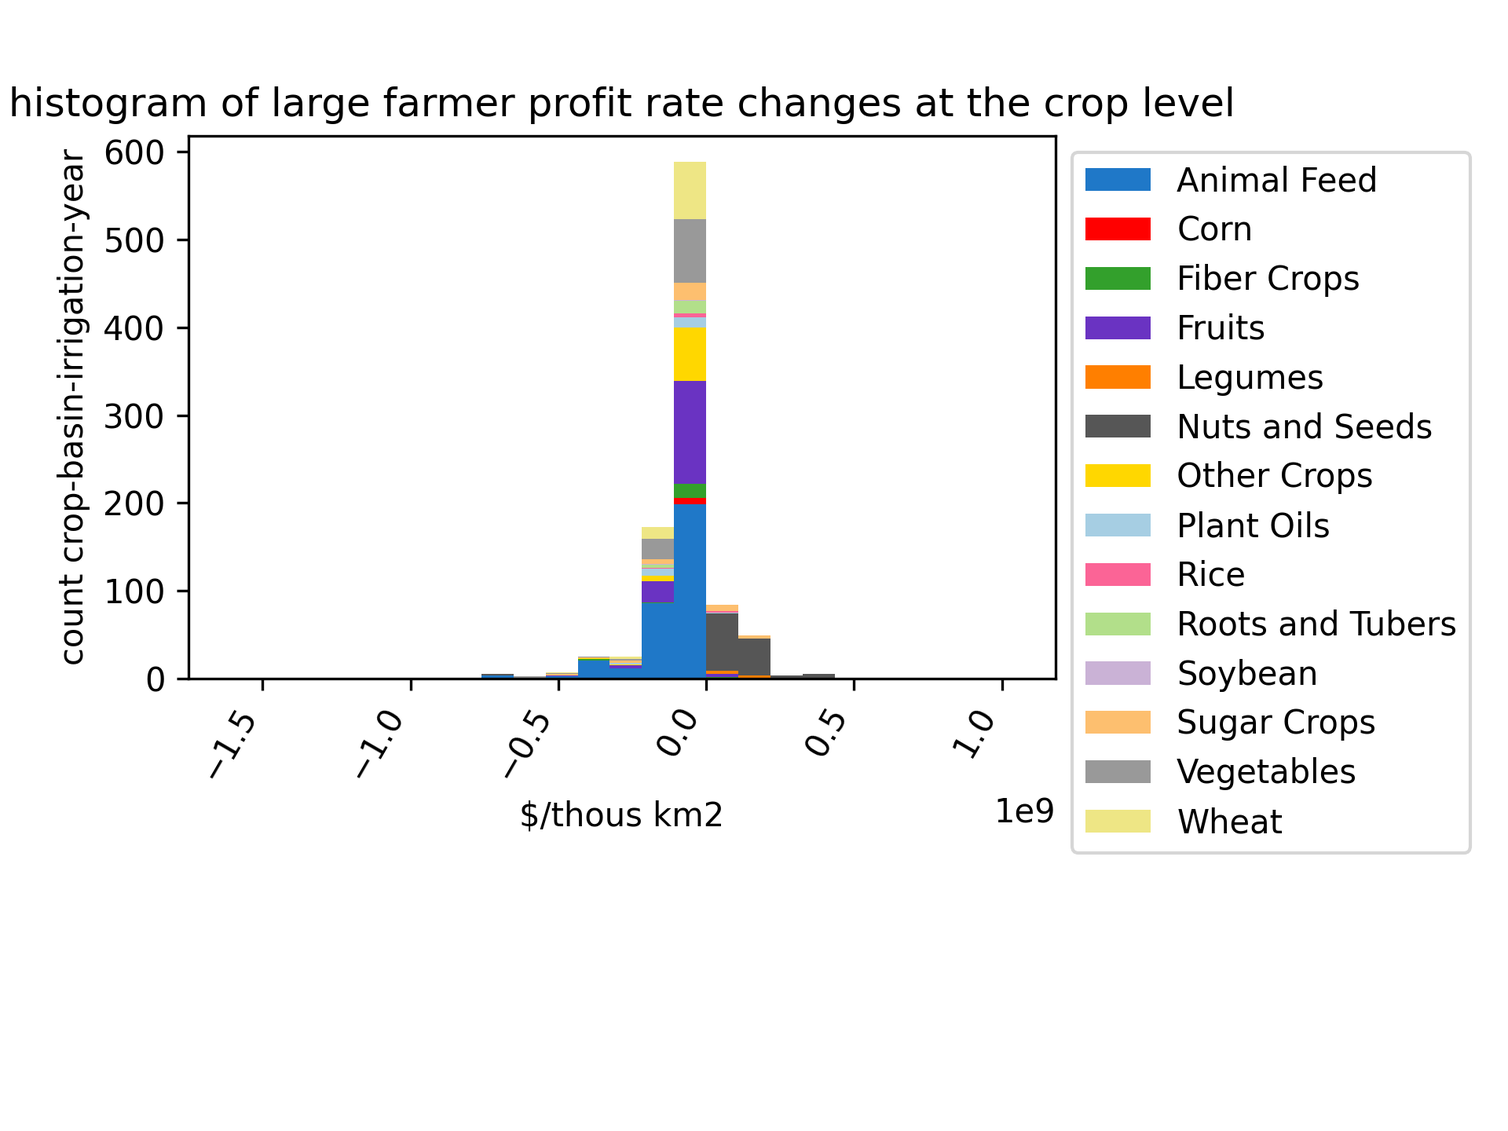
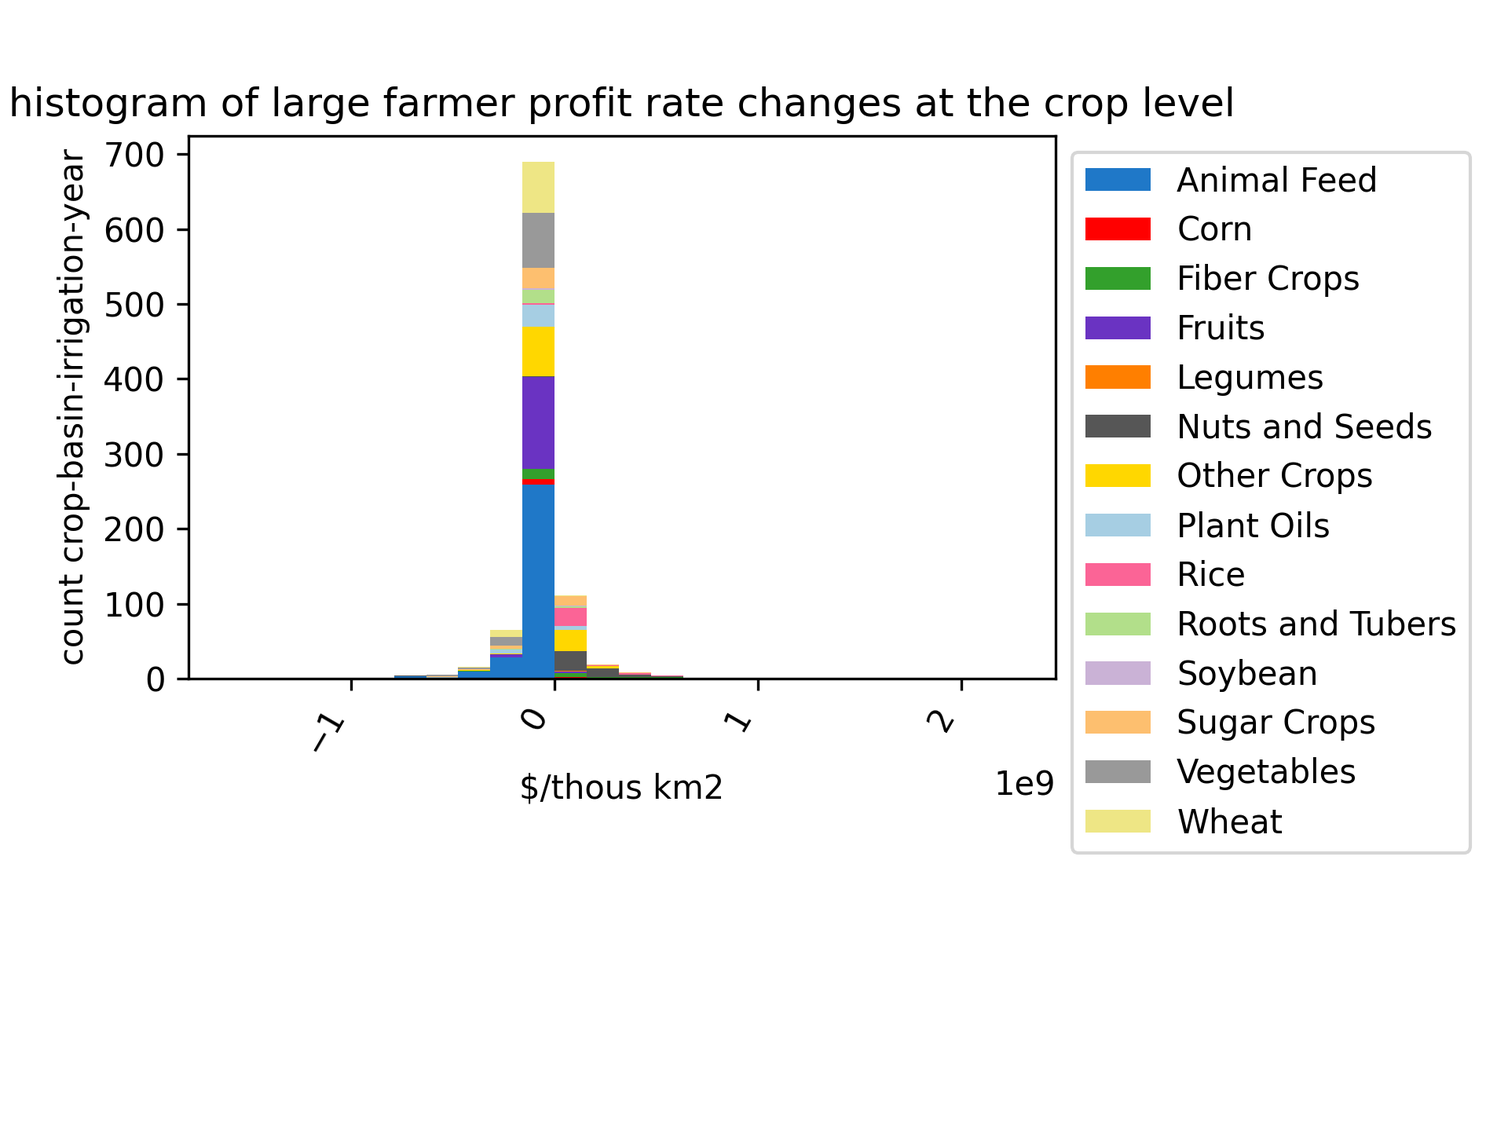
swapped baseline over to reference scenario hi from biochar hi

diff --git a/supplementary_figures.py b/supplementary_figures.py
@@ -1,13 +1,17 @@
-from matplotlib import pyplot as plt
-
-import constants
 import plotting
 import data_manipulation
 import constants as c
 import pandas as pd
-import stats as stats
+
 
 def pop_and_calories(nonBaselineScenario, RCP, SSP):
+    """
+    plots changes to population and calories consumed
+    :param nonBaselineScenario: the scenario to be compared to the released scenario
+    :param RCP: the RCP pathways being considered
+    :param SSP: the SSP pathways being considered
+    :return: N/A
+    """
     # get population data
     released_pop = pd.read_csv(
         "data/gcam_out/released/" + RCP + "/original/population_by_region.csv")
@@ -27,14 +31,20 @@ def pop_and_calories(nonBaselineScenario, RCP, SSP):
     pyrolysis_Pcal = pyrolysis_Pcal[pyrolysis_Pcal[['SSP']].isin(SSP).any(axis=1)]
     released_global_pcal = released_Pcal[released_Pcal[['GCAM']].isin(["Global"]).any(axis=1)]
     print(released_global_pcal[["subsector", "technology", "2050", "Units"]])
-    flat_diff_Pcal = data_manipulation.flat_difference(released_Pcal, pyrolysis_Pcal, ["GCAM", "SSP", "subsector", "subsector.1", "technology"]).drop_duplicates()
-    perc_diff_Pcal = data_manipulation.percent_difference(released_Pcal, pyrolysis_Pcal, ["GCAM", "SSP", "subsector", "subsector.1",  "technology"]).drop_duplicates()
+    flat_diff_Pcal = data_manipulation.flat_difference(released_Pcal, pyrolysis_Pcal,
+                                                       ["GCAM", "SSP", "subsector", "subsector.1",
+                                                        "technology"]).drop_duplicates()
+    perc_diff_Pcal = data_manipulation.percent_difference(released_Pcal, pyrolysis_Pcal,
+                                                          ["GCAM", "SSP", "subsector", "subsector.1",
+                                                           "technology"]).drop_duplicates()
     # perc_diff_Pcal["Units"] = "%"
     global_flat = flat_diff_Pcal[flat_diff_Pcal[['GCAM']].isin(["Global"]).any(axis=1)]
     print(global_flat[["subsector", "technology", "2050", "Units"]])
     flat_diff_Pcal = flat_diff_Pcal[~flat_diff_Pcal[['GCAM']].isin(["Global"]).any(axis=1)]
     perc_diff_Pcal = perc_diff_Pcal[~perc_diff_Pcal[['GCAM']].isin(["Global"]).any(axis=1)]
-    plotting.plot_regional_hist_avg(flat_diff_Pcal, "2050", SSP, "count region-foodstuff", "Flat difference in Pcals consumed in pyrolysis and reference scenario", "technology", "na")
+    plotting.plot_regional_hist_avg(flat_diff_Pcal, "2050", SSP, "count region-foodstuff",
+                                    "Flat difference in Pcals consumed in pyrolysis and reference scenario",
+                                    "technology", "na")
     plotting.plot_regional_hist_avg(perc_diff_Pcal, "2050", SSP, "count region-foodstuff",
                                     "Percent difference in Pcals consumed in pyrolysis and reference scenario",
                                     "technology", "na")
@@ -43,6 +53,13 @@ def pop_and_calories(nonBaselineScenario, RCP, SSP):
 
 
 def luc_by_region(nonBaselineScenario, RCP, SSP):
+    """
+    plots information related to land use changes between pyrolysis and reference scenario
+    :param nonBaselineScenario: the scenario to be compared to the released scenario
+    :param RCP: the RCP pathways being considered
+    :param SSP: the SSP pathways being considered
+    :return: N/A
+    """
     # get luc data
     released_luc = pd.read_csv(
         "data/gcam_out/released/" + RCP + "/original/LUC_emissions_by_LUT.csv")
@@ -59,7 +76,8 @@ def luc_by_region(nonBaselineScenario, RCP, SSP):
     flat_diff_luc = data_manipulation.group(flat_diff_luc, ["SSP"])
     released_luc_total = data_manipulation.group(released_luc, ["SSP"])
     print(released_luc_total[["2040", "2050", "Units"]])
-    plotting.plot_line_by_product(flat_diff_luc, ["SSP1"], "SSP", ["SSP1"], "SSP", "Net LUC compared to reference scenario")
+    plotting.plot_line_by_product(flat_diff_luc, ["SSP1"], "SSP", ["SSP1"], "SSP",
+                                  "Net LUC compared to reference scenario")
 
     released_luc = pd.read_csv(
         "data/gcam_out/released/" + RCP + "/original/LUC_emissions_by_LUT.csv")
@@ -67,39 +85,53 @@ def luc_by_region(nonBaselineScenario, RCP, SSP):
         "data/gcam_out/" + str(nonBaselineScenario) + "/" + RCP + "/masked" + "/LUC_emissions_by_LUT.csv")
     released_luc = released_luc[released_luc[['SSP']].isin(SSP).any(axis=1)]
     released_luc["LandLeaf"] = released_luc.apply(lambda row: data_manipulation.relabel_detailed_land_use(row), axis=1)
-    pyrolysis_luc["LandLeaf"] = pyrolysis_luc.apply(lambda row: data_manipulation.relabel_detailed_land_use(row), axis=1)
+    pyrolysis_luc["LandLeaf"] = pyrolysis_luc.apply(lambda row: data_manipulation.relabel_detailed_land_use(row),
+                                                    axis=1)
     released_luc = data_manipulation.group(released_luc, ["GCAM", "SSP", "LandLeaf"])
     pyrolysis_luc = data_manipulation.group(pyrolysis_luc, ["GCAM", "SSP", "LandLeaf"])
     flat_diff_luc = data_manipulation.flat_difference(released_luc, pyrolysis_luc, ["GCAM", "SSP", "LandLeaf"])
     for i in ["2040", "2045", "2050"]:
         plotting.plot_regional_hist_avg(flat_diff_luc, i, SSP, "count region-LandLeaf",
-                                    "Flat diffference in LUC emissions between pyrolysis and reference scenario in " + i,
-                                    "LandLeaf", "na")
+                                        "Flat diffference in LUC emissions between pyrolysis and reference scenario in " + i,
+                                        "LandLeaf", "na")
 
 
 def animal_feed_and_products(nonBaselineScenario, RCP, SSP):
+    """
+    returns information related to increased herd sizes and feed demands due to the introduction of pyrolysis
+    :param nonBaselineScenario: the scenario to be compared to the released scenario
+    :param RCP: the RCP pathways being considered
+    :param SSP: the SSP pathways being considered
+    :return: N/A
+    """
     released_supply = pd.read_csv(
         "data/gcam_out/released/" + RCP + "/original/supply_of_all_markets.csv")
     pyrolysis_supply = pd.read_csv(
         "data/gcam_out/" + str(nonBaselineScenario) + "/" + RCP + "/masked" + "/supply_of_all_markets.csv")
     released_supply = released_supply[released_supply[['SSP']].isin(SSP).any(axis=1)]
     pyrolysis_supply = pyrolysis_supply[pyrolysis_supply[['SSP']].isin(SSP).any(axis=1)]
-    feed = ["FodderHerb_Residue", "FeedCrops", "Pasture_FodderGrass", "Scavenging_Other"] # the different feed types
+    feed = ["FodderHerb_Residue", "FeedCrops", "Pasture_FodderGrass", "Scavenging_Other"]  # the different feed types
     released_feed = released_supply[released_supply[['product']].isin(feed).any(axis=1)]
     pyrolysis_feed = pyrolysis_supply[pyrolysis_supply[['product']].isin(feed).any(axis=1)]
-    products = ["Beef", "Dairy", "SheepGoat", "Pork", "Poultry"] # the different product types
+    products = ["Beef", "Dairy", "SheepGoat", "Pork", "Poultry"]  # the different product types
     released_products = released_supply[released_supply[['product']].isin(products).any(axis=1)]
     pyrolysis_products = pyrolysis_supply[pyrolysis_supply[['product']].isin(products).any(axis=1)]
 
     flat_diff_feed = data_manipulation.flat_difference(released_feed, pyrolysis_feed, ["GCAM", "SSP", "product"])
     perc_diff_feed = data_manipulation.percent_difference(released_feed, pyrolysis_feed, ["GCAM", "SSP", "product"])
-    flat_diff_animal = data_manipulation.flat_difference(released_products, pyrolysis_products, ["GCAM", "SSP", "product"])
-    perc_diff_animal = data_manipulation.percent_difference(released_products, pyrolysis_products, ["GCAM", "SSP", "product"])
+    flat_diff_animal = data_manipulation.flat_difference(released_products, pyrolysis_products,
+                                                         ["GCAM", "SSP", "product"])
+    perc_diff_animal = data_manipulation.percent_difference(released_products, pyrolysis_products,
+                                                            ["GCAM", "SSP", "product"])
 
-    plotting.plot_world(flat_diff_feed, feed, SSP, "product", "product", ["2050"], "change in animal feed by region (Mt) in 2050")
-    plotting.plot_world(perc_diff_feed, feed, SSP, "product", "product", ["2050"], "percentage change in animal feed by region in 2050")
-    plotting.plot_world(flat_diff_animal, products, SSP, "product", "product", ["2050"], "change in animal products by region in 2050")
-    plotting.plot_world(perc_diff_animal, products, SSP, "product", "product", ["2050"], "percentage change in animal products by region in 2050")
+    plotting.plot_world(flat_diff_feed, feed, SSP, "product", "product", ["2050"],
+                        "change in animal feed by region (Mt) in 2050")
+    plotting.plot_world(perc_diff_feed, feed, SSP, "product", "product", ["2050"],
+                        "percentage change in animal feed by region in 2050")
+    plotting.plot_world(flat_diff_animal, products, SSP, "product", "product", ["2050"],
+                        "change in animal products by region in 2050")
+    plotting.plot_world(perc_diff_animal, products, SSP, "product", "product", ["2050"],
+                        "percentage change in animal products by region in 2050")
 
     flat_diff_feed = data_manipulation.group(flat_diff_feed, ["GCAM"])
     print(data_manipulation.group(released_feed, ["SSP"])[["2050", "Units"]])
@@ -110,6 +142,13 @@ def animal_feed_and_products(nonBaselineScenario, RCP, SSP):
 
 
 def pyrolysis_costing(nonBaselineScenario, RCP, SSP):
+    """
+    returns information related to the cost of the pyrolysis scenario
+    :param nonBaselineScenario: the scenario to be compared to the released scenario
+    :param RCP: the RCP pathways being considered
+    :param SSP: the SSP pathways being considered
+    :return: N/A
+    """
     #get total costs
     total_cost = pd.read_csv(
         "data/gcam_out/" + str(nonBaselineScenario) + "/" + RCP + "/masked" + "/costs_by_tech.csv")
@@ -125,7 +164,8 @@ def pyrolysis_costing(nonBaselineScenario, RCP, SSP):
     feedstock_cost = feedstock_cost[feedstock_cost[['SSP']].isin(SSP).any(axis=1)]
     total_cost = total_cost[total_cost[['sector']].isin(['biochar']).any(axis=1)]
     unit_cost = unit_cost[unit_cost[['sector']].isin(['biochar']).any(axis=1)]
-    feedstock_cost = feedstock_cost[feedstock_cost[['product']].isin(['beef manure', 'dairy manure', 'goat manure', 'pork manure', 'poultry manure', "biochar"]).any(axis=1)]
+    feedstock_cost = feedstock_cost[feedstock_cost[['product']].isin(
+        ['beef manure', 'dairy manure', 'goat manure', 'pork manure', 'poultry manure', "biochar"]).any(axis=1)]
     total_cost[["GCAM", "2050", "technology", "Units"]].to_csv("data/data_analysis/total_cost_pyrolysis.csv")
     unit_cost[["GCAM", "2050", "technology", "Units"]].to_csv("data/data_analysis/unit_cost_pyrolysis.csv")
     feedstock_cost[["GCAM", "2050", "product", "Units"]].to_csv("data/data_analysis/feedstock_cost_pyrolysis.csv")
@@ -136,10 +176,18 @@ def pyrolysis_costing(nonBaselineScenario, RCP, SSP):
     feedstock_cost = feedstock_cost[feedstock_cost["2050"] < 3]
     feedstock_cost["2050"] = feedstock_cost["2050"] / 0.17 * 1000
     feedstock_cost["Units"] = "USD$/ton"
-    plotting.plot_regional_hist_avg(feedstock_cost, "2050", SSP, "count", "price distribution of manures", "product", "na")
+    plotting.plot_regional_hist_avg(feedstock_cost, "2050", SSP, "count", "price distribution of manures", "product",
+                                    "na")
 
 
 def farmer_economics(nonBaselineScenario, RCP, SSP):
+    """
+    plots information related to the changes in farming due to biochar production
+    :param nonBaselineScenario: the scenario to be compared to the released scenario
+    :param RCP: the RCP pathways being considered
+    :param SSP: the SSP pathways being considered
+    :return: N/A
+    """
     # get data
     pyrolysis_yields = pd.read_csv(
         "data/gcam_out/" + str(nonBaselineScenario) + "/" + RCP + "/masked" + "/ag_tech_yield.csv")
@@ -165,41 +213,58 @@ def farmer_economics(nonBaselineScenario, RCP, SSP):
     # profit rates
     # change in profit to the farmer compared to baseline (hi mgmt type)
     units = pyrolysis_profit_rate["Units"].unique()[0]
-    pyrolysis_profit_rate[["Crop", "basin", "rainfed", "mgmt"]] = pyrolysis_profit_rate['LandLeaf'].str.split('_',expand=True)
-    pyrolysis_hi_profit = pyrolysis_profit_rate[pyrolysis_profit_rate[['mgmt']].isin(["hi"]).any(axis=1)].copy(deep=True)
-    pyrolysis_biochar_profit = pyrolysis_profit_rate[pyrolysis_profit_rate[['mgmt']].isin(["biochar"]).any(axis=1)].copy(
+    pyrolysis_profit_rate[["Crop", "basin", "rainfed", "mgmt"]] = pyrolysis_profit_rate['LandLeaf'].str.split('_',
+                                                                                                              expand=True)
+    released_profit_rate[["Crop", "basin", "rainfed", "mgmt"]] = released_profit_rate['LandLeaf'].str.split('_',
+                                                                                                              expand=True)
+    released_hi_profit = released_profit_rate[released_profit_rate[['mgmt']].isin(["hi"]).any(axis=1)].copy(
         deep=True)
-    pyrolysis_diff_profit = pd.merge(pyrolysis_hi_profit, pyrolysis_biochar_profit, how="left", on=["GCAM", "SSP", "Crop", "basin", "rainfed"], suffixes=("_left","_right"))
+    pyrolysis_biochar_profit = pyrolysis_profit_rate[
+        pyrolysis_profit_rate[['mgmt']].isin(["biochar"]).any(axis=1)].copy(
+        deep=True)
+    pyrolysis_diff_profit = pd.merge(released_hi_profit, pyrolysis_biochar_profit, how="left",
+                                     on=["GCAM", "SSP", "Crop", "basin", "rainfed"], suffixes=("_left", "_right"))
     pyrolysis_diff_profit["Units"] = units
-    pyrolysis_diff_profit['Crop'] = pyrolysis_diff_profit.apply(lambda row: data_manipulation.relabel_land_crops(row, "Crop"), axis=1)
+    pyrolysis_diff_profit['Crop'] = pyrolysis_diff_profit.apply(
+        lambda row: data_manipulation.relabel_land_crops(row, "Crop"), axis=1)
     for i in c.GCAMConstants.x:
-        pyrolysis_diff_profit[str(i)] = pyrolysis_diff_profit[str(i)+"_right"] - pyrolysis_diff_profit[str(i)+"_left"]
+        pyrolysis_diff_profit[str(i)] = pyrolysis_diff_profit[str(i) + "_right"] - pyrolysis_diff_profit[
+            str(i) + "_left"]
 
     pyrolysis_diff_profit = pyrolysis_diff_profit.sort_values(by='2050')
-    flat_diff_small = pyrolysis_diff_profit[(-6e7 < pyrolysis_diff_profit['2050']) & (pyrolysis_diff_profit['2050'] < 6e7)]
-    flat_diff_large = pyrolysis_diff_profit[(-6e7 >= pyrolysis_diff_profit['2050']) | (pyrolysis_diff_profit['2050'] >= 6e7)]
+    flat_diff_small = pyrolysis_diff_profit[
+        (-6e7 < pyrolysis_diff_profit['2050']) & (pyrolysis_diff_profit['2050'] < 6e7)]
+    flat_diff_large = pyrolysis_diff_profit[
+        (-6e7 >= pyrolysis_diff_profit['2050']) | (pyrolysis_diff_profit['2050'] >= 6e7)]
     plotting.plot_regional_hist_avg(flat_diff_small, "2050", ["SSP1"], "count crop-basin-irrigation-year",
                                     "histogram of small farmer profit rate changes at the crop level", "Crop", "na")
     plotting.plot_regional_hist_avg(flat_diff_large, "2050", ["SSP1"], "count crop-basin-irrigation-year",
                                     "histogram of large farmer profit rate changes at the crop level", "Crop", "na")
 
     # change in per crop supply
-    pyrolysis_yields_lands = pd.merge(pyrolysis_yields, pyrolysis_land, "left", left_on=["GCAM", "SSP", "technology"], right_on=["GCAM", "SSP","LandLeaf"], suffixes=("_left","_right"))
+    pyrolysis_yields_lands = pd.merge(pyrolysis_yields, pyrolysis_land, "left", left_on=["GCAM", "SSP", "technology"],
+                                      right_on=["GCAM", "SSP", "LandLeaf"], suffixes=("_left", "_right"))
     released_yields_lands = pd.merge(released_yields, released_land, "left",
-                                      left_on=["GCAM", "SSP", "technology"], right_on=["GCAM", "SSP","LandLeaf"],
-                                      suffixes=("_left", "_right"))
+                                     left_on=["GCAM", "SSP", "technology"], right_on=["GCAM", "SSP", "LandLeaf"],
+                                     suffixes=("_left", "_right"))
     pyrolysis_lands_grouping = pyrolysis_yields_lands.copy(deep=True)
     released_lands_grouping = released_yields_lands.copy(deep=True)
 
     for i in c.GCAMConstants.x:
-        pyrolysis_yields_lands[str(i)] = pyrolysis_yields_lands[str(i)+"_left"] * pyrolysis_yields_lands[str(i)+"_right"]
-        released_yields_lands[str(i)] = released_yields_lands[str(i) + "_left"] * released_yields_lands[str(i) + "_right"]
+        pyrolysis_yields_lands[str(i)] = pyrolysis_yields_lands[str(i) + "_left"] * pyrolysis_yields_lands[
+            str(i) + "_right"]
+        released_yields_lands[str(i)] = released_yields_lands[str(i) + "_left"] * released_yields_lands[
+            str(i) + "_right"]
         pyrolysis_lands_grouping[str(i)] = pyrolysis_yields_lands[str(i) + "_right"]
         released_lands_grouping[str(i)] = released_yields_lands[str(i) + "_right"]
 
     #group by crop
-    pyrolysis_yields_lands[['Version', 'output', 'concentration', 'input', 'product', 'fuel', 'LandLeaf', 'GHG', "Units", "subsector", "technology"]] = "NA"
-    released_yields_lands[['Version', 'output', 'concentration', 'input', 'product', 'fuel', 'LandLeaf', 'GHG', "Units", "subsector", "technology"]] = "NA"
+    pyrolysis_yields_lands[
+        ['Version', 'output', 'concentration', 'input', 'product', 'fuel', 'LandLeaf', 'GHG', "Units", "subsector",
+         "technology"]] = "NA"
+    released_yields_lands[
+        ['Version', 'output', 'concentration', 'input', 'product', 'fuel', 'LandLeaf', 'GHG', "Units", "subsector",
+         "technology"]] = "NA"
     pyrolysis_lands_grouping[
         ['Version', 'output', 'concentration', 'input', 'product', 'fuel', 'LandLeaf', 'GHG', "Units", "subsector",
          "technology"]] = "NA"
@@ -216,13 +281,17 @@ def farmer_economics(nonBaselineScenario, RCP, SSP):
     released_lands_grouping = data_manipulation.group(released_lands_grouping, ["GCAM", "SSP", "sector"])
 
     # divide by available crop land
-    pyrolysis_effective_yield = pd.merge(pyrolysis_effective_yield, pyrolysis_lands_grouping, "left", on=["GCAM", "SSP", "sector"],
-                                      suffixes=("_left", "_right"))
-    released_effective_yield = pd.merge(released_effective_yield, released_lands_grouping, "left", on=["GCAM", "SSP", "sector"],
-                                      suffixes=("_left", "_right"))
+    pyrolysis_effective_yield = pd.merge(pyrolysis_effective_yield, pyrolysis_lands_grouping, "left",
+                                         on=["GCAM", "SSP", "sector"],
+                                         suffixes=("_left", "_right"))
+    released_effective_yield = pd.merge(released_effective_yield, released_lands_grouping, "left",
+                                        on=["GCAM", "SSP", "sector"],
+                                        suffixes=("_left", "_right"))
     for i in c.GCAMConstants.x:
-        pyrolysis_effective_yield[str(i)] = pyrolysis_effective_yield[str(i)+"_left"] / pyrolysis_effective_yield[str(i)+"_right"]
-        released_effective_yield[str(i)] = released_effective_yield[str(i) + "_left"] / released_effective_yield[str(i) + "_right"]
+        pyrolysis_effective_yield[str(i)] = pyrolysis_effective_yield[str(i) + "_left"] / pyrolysis_effective_yield[
+            str(i) + "_right"]
+        released_effective_yield[str(i)] = released_effective_yield[str(i) + "_left"] / released_effective_yield[
+            str(i) + "_right"]
 
     pyrolysis_effective_yield[
         ['Version', 'output', 'concentration', 'input', 'product', 'fuel', 'LandLeaf', 'GHG', "Units", "subsector",
@@ -235,8 +304,10 @@ def farmer_economics(nonBaselineScenario, RCP, SSP):
     released_effective_yield = released_effective_yield[c.GCAMConstants.column_order]
 
     # yield differences between crops
-    flat_diff_effective_yields = data_manipulation.flat_difference(released_effective_yield, pyrolysis_effective_yield, ["GCAM", "SSP", "sector"])
-    plotting.plot_regional_hist_avg(flat_diff_effective_yields, "2050", ["SSP1"], "count region-year", "histogram of yield changes at the crop level", "sector", "na")
+    flat_diff_effective_yields = data_manipulation.flat_difference(released_effective_yield, pyrolysis_effective_yield,
+                                                                   ["GCAM", "SSP", "sector"])
+    plotting.plot_regional_hist_avg(flat_diff_effective_yields, "2050", ["SSP1"], "count region-year",
+                                    "histogram of yield changes at the crop level", "sector", "na")
 
     empty_pyro = pyrolysis_land[pyrolysis_land["LandLeaf"].str.contains("biochar")].copy(deep=True)
     for i in c.GCAMConstants.x:
@@ -244,24 +315,33 @@ def farmer_economics(nonBaselineScenario, RCP, SSP):
     released_land = pd.concat([released_land, empty_pyro])
     # subtract from pyrolysis land
     flat_diff_mgmt = data_manipulation.flat_difference(released_land, pyrolysis_land, ["GCAM", "SSP", "LandLeaf"])
-    flat_diff_mgmt[["Crop", "basin", "rainfed", "mgmt"]] = flat_diff_mgmt['LandLeaf'].str.split('_',expand=True)
+    flat_diff_mgmt[["Crop", "basin", "rainfed", "mgmt"]] = flat_diff_mgmt['LandLeaf'].str.split('_', expand=True)
     flat_diff_mgmt = flat_diff_mgmt[flat_diff_mgmt['mgmt'].notna()]
     flat_diff_mgmt = flat_diff_mgmt.sort_values(by='2050')
     flat_diff_small = flat_diff_mgmt[(-1 < flat_diff_mgmt['2050']) & (flat_diff_mgmt['2050'] < 1)]
     flat_diff_large = flat_diff_mgmt[(-1 >= flat_diff_mgmt['2050']) | (flat_diff_mgmt['2050'] >= 1)]
-    plotting.plot_regional_hist_avg(flat_diff_small, "2050", ["SSP1"], "count basin-crop-irrigation", "histogram of small land mgmt changes in terms of area compared to reference scenario", "mgmt", "na")
-    plotting.plot_regional_hist_avg(flat_diff_large, "2050", ["SSP1"], "count basin-crop-irrigation", "histogram of large land mgmt changes in terms of area compared to reference scenario", "mgmt", "na")
-
+    plotting.plot_regional_hist_avg(flat_diff_small, "2050", ["SSP1"], "count basin-crop-irrigation",
+                                    "histogram of small land mgmt changes in terms of area compared to reference scenario",
+                                    "mgmt", "na")
+    plotting.plot_regional_hist_avg(flat_diff_large, "2050", ["SSP1"], "count basin-crop-irrigation",
+                                    "histogram of large land mgmt changes in terms of area compared to reference scenario",
+                                    "mgmt", "na")
 
 
 def main():
+    """
+    Main method for running all scripts
+    :return: N/A
+    """
     reference_SSP = "SSP1"
     reference_RCP = "2p6"
-    farmer_economics("biochar", reference_RCP, [reference_SSP])
-    pyrolysis_costing("biochar", reference_RCP, [reference_SSP])
-    animal_feed_and_products("biochar", reference_RCP, [reference_SSP])
-    luc_by_region("biochar", reference_RCP, [reference_SSP])
-    pop_and_calories("biochar", reference_RCP, [reference_SSP])
+    other_scenario = "biochar"  # biochar
+    farmer_economics(other_scenario, reference_RCP, [reference_SSP])
+    pyrolysis_costing(other_scenario, reference_RCP, [reference_SSP])
+    animal_feed_and_products(other_scenario, reference_RCP, [reference_SSP])
+    luc_by_region(other_scenario, reference_RCP, [reference_SSP])
+    pop_and_calories(other_scenario, reference_RCP, [reference_SSP])
+
 
 if __name__ == '__main__':
     main()
